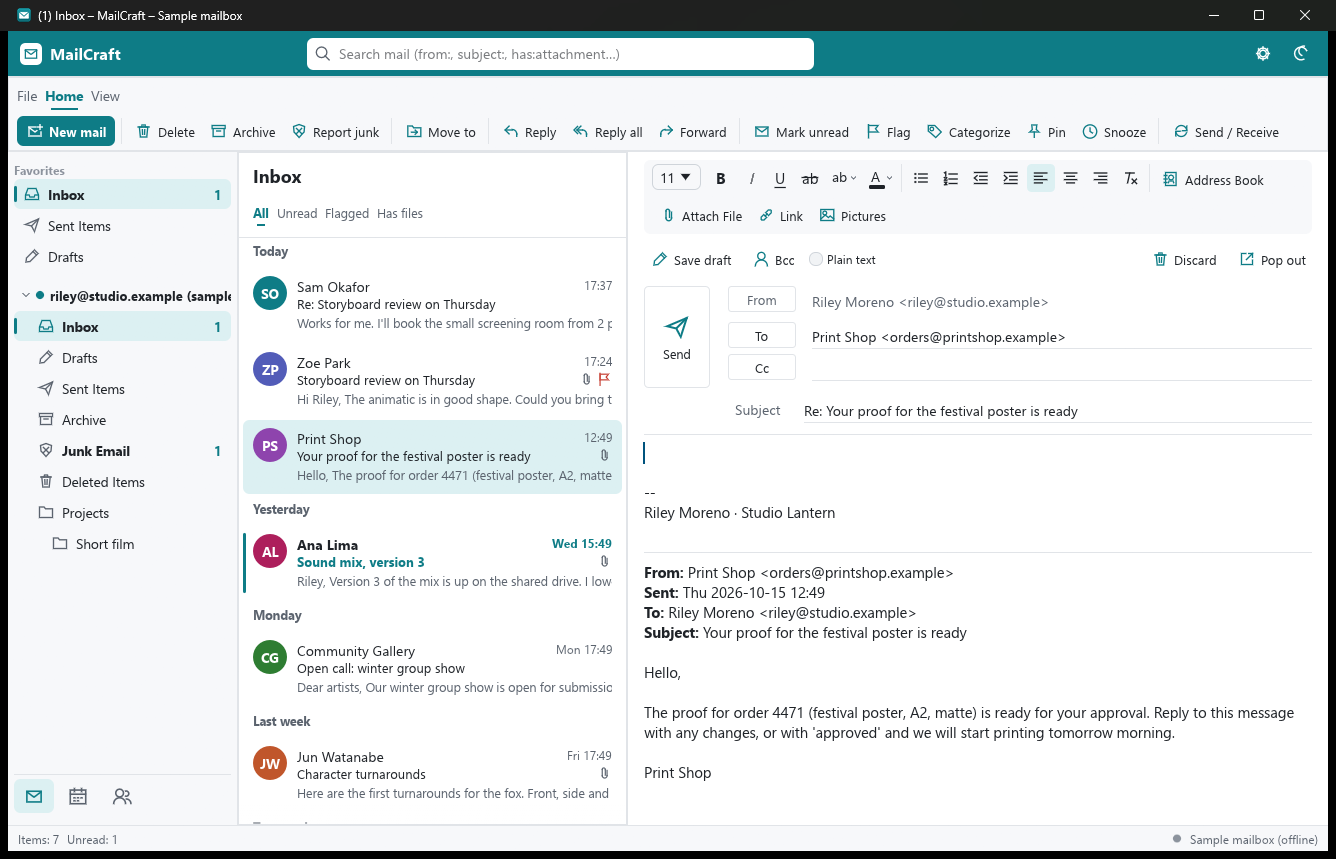
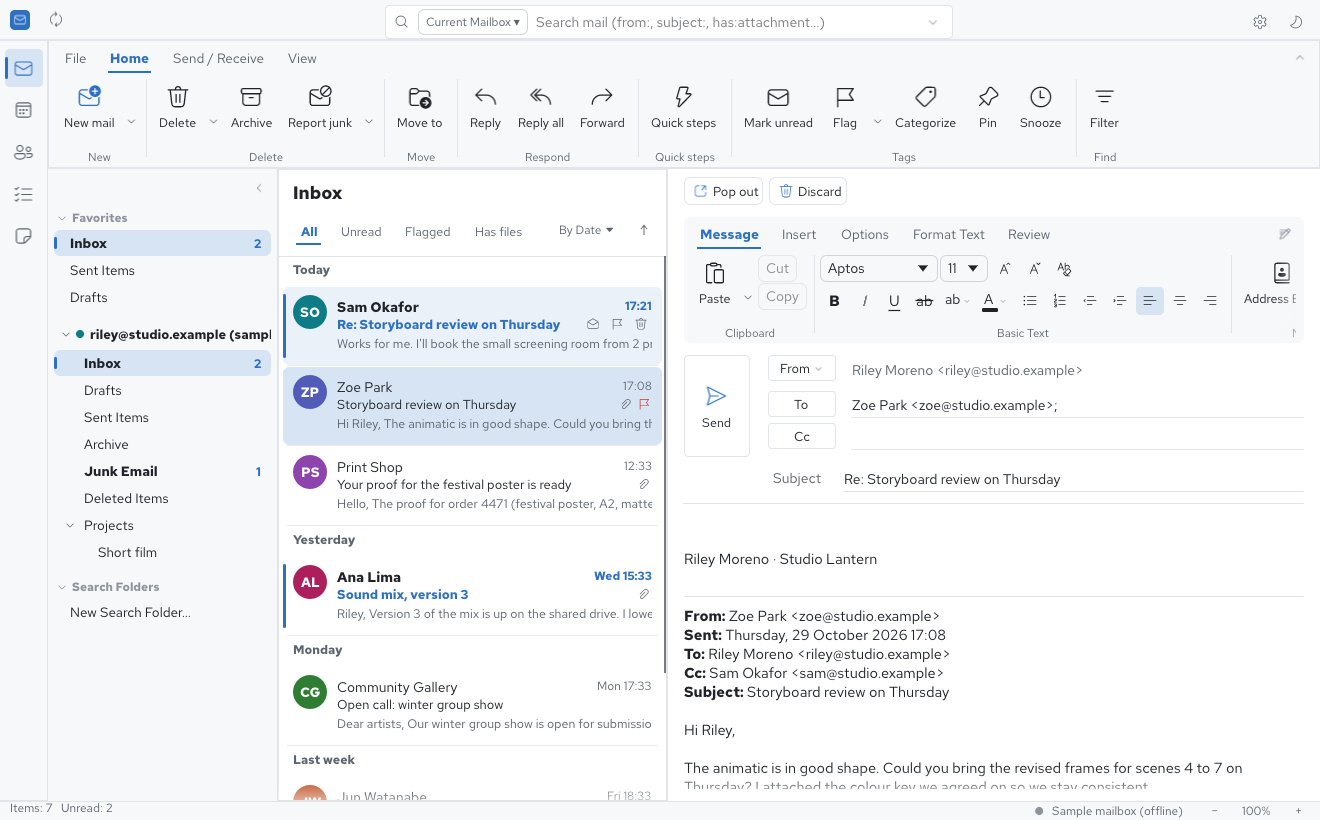
Quatrelle by Didier Gaudin: the README, its screenshots and the publisher's name
The README presents Quatrelle as its own project, started as a fork of ZIDAN44/mailcraft, with
today's screenshots of the sample mailbox (reading, search in dark mode, writing, the calendar's
week and the classic layout), the Exchange features and the assistant, what a stable release's
installers ask for while they aren't signed, and the versions (1.0.x stable, 1.1.x test builds).
Its line on Gmail and Microsoft sign-in says what a release build carries.

The licence keeps the code's origin as it was written ("the ArtCraft Team and the MailCraft
contributors", which the rename had changed) beside Didier Gaudin's own. The About page, the
Windows installer, the Linux packages and the AppStream metadata name him as the publisher and
point to the repository's issues rather than ArtCraft's Discord.

diff --git a/crates/ui-egui/src/panes/backstage/about.rs b/crates/ui-egui/src/panes/backstage/about.rs
@@ -50,7 +50,7 @@ pub(super) fn about(s: &Session, t: &Tokens, update: &crate::UpdateState, ui: &m
         ui.add_space(10.0);
         ui.vertical(|ui| {
             ui.label(RichText::new(tf!("Quatrelle {version}", version = env!("CARGO_PKG_VERSION"))).font(theme::bold(18.0)).color(t.text));
-            ui.label(RichText::new(tl!("An ArtCraft app · MIT OR Apache-2.0")).color(t.dim));
+            ui.label(RichText::new(tf!("By {author} · MIT OR Apache-2.0", author = "Didier Gaudin")).color(t.dim));
         });
     });
     ui.add_space(10.0);

diff --git a/apps/quatrelle/build.rs b/apps/quatrelle/build.rs
@@ -24,7 +24,7 @@ fn main() {
         .set_manifest(windows_manifest::WINDOWS_MANIFEST)
         .set("ProductName", "Quatrelle")
         .set("FileDescription", "Quatrelle email")
-        .set("CompanyName", "Learning Machines LLC")
+        .set("CompanyName", "Didier Gaudin")
         .set("LegalCopyright", "Copyright (c) the Quatrelle authors. MIT OR Apache-2.0.")
         .set("OriginalFilename", "quatrelle.exe")
         .set("InternalName", "quatrelle");

diff --git a/README.md b/README.md
@@ -1,19 +1,16 @@
 <h1 align="center">Quatrelle</h1>
 
-> **Ce fork (dgaudin/quatrelle)** s'écarte de l'original sur les icônes (Fluent UI de Microsoft,
-> MIT), le style de la fenêtre et l'apparence d'Outlook : voir [FORK.md](FORK.md).
-
 <p align="center">
-  <b>Local-first email for creators; an open-source, clean-room alternative to Microsoft Outlook, rebuilt in pure Rust.</b>
+  <b>Local-first email: an open-source, clean-room alternative to Microsoft Outlook, rebuilt in pure Rust.</b>
 </p>
 
 <p align="center">
   The mail workflow you already know (folders, a message list grouped by date, a reading pane,
-  Reply / Reply all / Forward, flags, Archive, Delete, Send / Receive) over IMAP and SMTP, JMAP or
-  Exchange Online, with a calendar and people beside it.
-  Mail is cached on your computer, so it opens instantly, searches fast and stays readable offline.
-  Your password stays in the system keychain and only ever goes to your own mail server.<br>
-  <i>By the ArtCraft team. Tracked in <a href="https://github.com/storytold/artcraft/issues/2177">storytold/artcraft#2177</a>.</i>
+  Reply / Reply all / Forward, flags, Archive, Delete, Send / Receive) over IMAP and SMTP, JMAP, or
+  Exchange (your organisation's own server, or Exchange Online), with a calendar, people and tasks
+  beside it. Mail is kept on your computer, so it opens instantly, searches fast and stays readable
+  offline. Your password stays in the system keychain and only ever goes to your own mail server.<br>
+  <i>By Didier Gaudin. Quatrelle started as a fork of <a href="https://github.com/ZIDAN44/mailcraft">ZIDAN44/mailcraft</a>.</i>
 </p>
 
 <p align="center">
@@ -25,13 +22,17 @@
 </p>
 
 <p align="center">
-  <img src="docs/images/reading.png" alt="Quatrelle with the sample mailbox: the folder pane on the left with Favorites and the account's folders and unread counts, the ribbon with Categorize, Pin and Snooze, the Inbox grouped under Today, Yesterday, Monday and Last week, and the reading pane showing a flagged message with its two-message conversation, sender card, Reply, Print and Save buttons and a picture attachment with a preview" width="100%">
+  <img src="docs/images/reading.png" alt="Quatrelle with the sample mailbox: the folder pane on the left with Favorites and the account's folders and unread counts, the ribbon with Reply, Quick steps, Flag, Categorize, Pin and Snooze, the Inbox grouped under Today, Yesterday, Monday and Last week, and the reading pane showing a flagged message with its follow-up, Reply, Reply all, Forward, Print and Save buttons and a picture attachment" width="100%">
 </p>
 
 <table>
 <tr>
 <td width="50%"><img src="docs/images/search-dark.png" alt="Dark mode with a search for storyboard across all folders, both messages of the conversation found and the reply open" width="100%"><p align="center"><sub><b>Search</b> across every folder, offline, with <code>from:</code>, <code>subject:</code>, <code>has:attachment</code>, <code>is:unread</code>; conversations; dark mode.</sub></p></td>
-<td width="50%"><img src="docs/images/compose.png" alt="Writing a reply in the reading pane: the formatting toolbar, Attach File, Link and Pictures, Save draft, Bcc, Discard and Pop out, the From, To and Subject fields filled in, the cursor above the signature and the original message below" width="100%"><p align="center"><sub><b>Write</b> in place: replies quote the original under your signature, with attachments, Cc/Bcc and drafts.</sub></p></td>
+<td width="50%"><img src="docs/images/compose.png" alt="Writing a reply in the reading pane: the Message, Insert, Options, Format Text and Review tabs, the font and paragraph buttons, Pop out and Discard, the From, To and Subject fields filled in, the signature and the original message below" width="100%"><p align="center"><sub><b>Write</b> in place: replies quote the original under your signature, with attachments, Cc/Bcc and drafts.</sub></p></td>
+</tr>
+<tr>
+<td width="50%"><img src="docs/images/calendar.png" alt="The calendar's week view: the date navigator on the left, the ribbon with Day, Work week, Week and Month, and a week of appointments in their calendars' colours, several side by side on Thursday" width="100%"><p align="center"><sub><b>Calendar</b>: day, week and month views, invitations, meetings with the Scheduling Assistant; Exchange, CalDAV or this computer.</sub></p></td>
+<td width="50%"><img src="docs/images/table.png" alt="The classic layout: the message list as a table with From, Subject, Received, Size and Categories columns, the reading pane at the bottom, and the To-Do bar's month and coming appointments on the right" width="100%"><p align="center"><sub><b>Classic layout</b>: the list as a table, the reading pane at the bottom or off, the To-Do bar beside it.</sub></p></td>
 </tr>
 </table>
 
@@ -71,11 +72,13 @@ the point: Rust is the language underneath, and the rust is what keeps it from f
 
 | Area | Highlights |
 |---|---|
-| **Accounts** | Any IMAP + SMTP or POP + SMTP provider (POP mail is kept in folders on this computer, starting from an existing `.pst` if wanted), JMAP (RFC 8620/8621), Exchange Online through Microsoft Graph, or an organisation's own Exchange server through EWS (NTLM or Basic sign-in, found with Autodiscover, calendars and contacts included); several accounts with an *All Inboxes* favorite; server settings found from the address (the domain's autoconfig, the Mozilla ISPDB, MX and SRV records); Gmail and Microsoft 365 sign-in through the browser (OAuth 2.0); SSL/TLS or STARTTLS; passwords in the system keychain; Outlook data files (`.pst`) open as mailboxes of their own, with their contacts and calendar, and any account exports to one |
+| **Accounts** | Any IMAP + SMTP or POP + SMTP provider (POP mail is kept in folders on this computer, starting from an existing `.pst` if wanted), JMAP (RFC 8620/8621), Exchange Online through Microsoft Graph, or an organisation's own Exchange server through EWS (NTLM or Basic sign-in, found with Autodiscover, calendars and contacts included); several accounts with an *All Inboxes* favorite; server settings found from the address (the domain's autoconfig, the Mozilla ISPDB, MX and SRV records); sign-in through the browser (OAuth 2.0) for Microsoft 365 with your organisation's own app registration, and for Gmail and Outlook.com in builds that carry one ([docs/oauth.md](docs/oauth.md)), an app password otherwise; SSL/TLS or STARTTLS; passwords in the system keychain; Outlook data files (`.pst`) open as mailboxes of their own, with their contacts and calendar, and any account exports to one |
 | **Sync** | Folder list with special-use roles (RFC 6154); per-folder incremental sync (new mail, flag changes via CONDSTORE, deletions via QRESYNC); UIDVALIDITY resets; IDLE on the Inbox for instant new mail; newest messages prefetched for offline reading; changes made offline replayed; back-off reconnects; desktop notifications for new mail |
 | **Reading** | Date-grouped list (Today, Yesterday, weekdays, Last week…), unread bars and bold, flags, attachment and replied markers, previews; reading pane right, bottom or off; double-click opens a message in its own window; conversations (JWZ threading); HTML shown formatted (headings, lists, links, quotes, colours, tables) with web pictures on request, remembered per sender; picture, PDF and video thumbnails; attachments dragged out to other apps; Print, Save as PDF, Save as `.eml`; arranged by date, sender, recipient, subject, size, flag or attachments, either way round; filters for unread, flagged, files, categorized, important and to or Cc me; a minimizable folder pane |
 | **Organising** | Delete (to Deleted Items; permanent there, with confirmation), Archive, Report junk / Not junk, Move to (dialog or drag), Read / Unread, Flag, Pin, Snooze, colour categories, Mark all as read; Focused / Other; inbox rules; filters: Unread, Flagged, Has files; multi-select with Ctrl and Shift; folders created, renamed, moved and deleted; favourites; Undo (Ctrl+Z); Ignore a conversation (its later replies go to Deleted Items) |
-| **Writing** | New, Reply, Reply all, Forward (with attachments); formatting (bold, italic, lists, headings, quotes, links) sent with a plain-text alternative; pictures inserted or pasted inline; To / Cc / Bcc suggested from mail you've seen; attachments up to 25 MB; signatures; drafts saved to the server; an Outbox for mail written offline; High / Low importance and read receipts; drafts that can't reach the server are kept and saved when it's back |
+| **Writing** | New, Reply, Reply all, Forward (with attachments); formatting (bold, italic, lists, headings, quotes, links) sent with a plain-text alternative; pictures inserted or pasted inline; To / Cc / Bcc suggested from mail you've seen; attachments up to 25 MB; signatures; drafts saved to the server; an Outbox for mail written offline; Delay Delivery; voting buttons; High / Low importance and read receipts; drafts that can't reach the server are kept and saved when it's back; S/MIME signing and encryption, with a certificate file or a smart card |
+| **Exchange** | An organisation's own Exchange server through EWS, kept on this computer as Outlook's Cached Exchange Mode keeps it; shared mailboxes and calendars; public folders; the server's rules, Outlook's included; automatic replies inside and outside the organisation; the Scheduling Assistant and the Room Finder; folder sizes on the server |
+| **Assistant** | Optional, through any OpenAI-compatible server (OpenAI, Mistral, Ollama, LM Studio…): summarize a message or a conversation, propose a reply, suggest a folder and a category, rephrase what you write; its key stays in the keychain, and nothing is sent until you ask |
 | **Calendar and people** | Day, week and month views; events with recurrences and time zones; meeting invitations by mail (accept, tentative, decline, inviting guests); an address book; synced with CalDAV / CardDAV |
 | **Mailbox** | The File page: account settings, automatic replies (Sieve, JMAP or Exchange), the space used, emptying Deleted Items and Junk Email, rules, Options; Work offline; each account in one `.quatrelle` data file in Documents\Quatrelle Files, movable as Outlook's are |
 | **Search** | Offline, all folders or this folder; bare words match word prefixes; `"phrases"`, `from:`, `to:`, `subject:`, `body:`, `has:attachment`, `is:unread`, `is:flagged`, `-negation` |
@@ -86,10 +89,13 @@ The full list of what's missing, ranked, is in [docs/gaps.md](docs/gaps.md).
 
 ## Quick start
 
-Installers come from the [Releases](https://github.com/dgaudin/quatrelle/releases) page once a
-release is cut: `.msi` and a portable zip for Windows (x64, x86, ARM64), a `.dmg` for macOS
-(universal), AppImage, `.deb`, `.rpm`, Flatpak and `.tar.gz` for Linux (x86_64, aarch64, riscv64),
-and a FreeBSD tarball. To run from source:
+Installers come from the [Releases](https://github.com/dgaudin/quatrelle/releases) page: `.msi`
+and a portable zip for Windows (x64, x86, ARM64), a `.dmg` for macOS (universal), AppImage,
+`.deb`, `.rpm`, Flatpak and `.tar.gz` for Linux (x86_64, aarch64, riscv64), and a FreeBSD
+tarball. The Windows and macOS installers aren't signed yet: Windows SmartScreen asks you to
+confirm (*More info › Run anyway*), and macOS to allow the app in *System Settings › Privacy &
+Security*. Versions: `1.0.x` are the stable releases and their fixes; `1.1.x` test builds come
+first as pre-releases. To run from source:
 
 ```bash
 cargo run --release -p quatrelle -- --sample
@@ -171,7 +177,11 @@ of your own in `assets/icon.png` and run it again to use that instead.
 
 ## License and credits
 
-MIT OR Apache-2.0. Built on [`mail-parser`](https://github.com/stalwartlabs/mail-parser) and
+MIT OR Apache-2.0. Quatrelle started as a fork of [ZIDAN44/mailcraft](https://github.com/ZIDAN44/mailcraft)
+(© the ArtCraft Team and the MailCraft contributors); what it changed from it, and why, is in
+[FORK.md](FORK.md) (in French). The rest is © Didier Gaudin.
+
+Built on [`mail-parser`](https://github.com/stalwartlabs/mail-parser) and
 [`mail-builder`](https://github.com/stalwartlabs/mail-builder) (Stalwart Labs, Apache-2.0 / MIT),
 [`imap-proto`](https://github.com/djc/tokio-imap) (MIT / Apache-2.0), [`lettre`](https://github.com/lettre/lettre) (MIT),
 [`rustls`](https://github.com/rustls/rustls) and [`ring`](https://github.com/briansmith/ring), [`html2text`](https://github.com/jugglerchris/rust-html2text) (MIT),
@@ -179,4 +189,5 @@ MIT OR Apache-2.0. Built on [`mail-parser`](https://github.com/stalwartlabs/mail
 [`quick-xml`](https://github.com/tafia/quick-xml) (MIT), [`hayro`](https://github.com/LaurenzV/hayro) (MIT / Apache-2.0),
 [`outlook-pst`](https://github.com/microsoft/outlook-pst-rs) (Microsoft, MIT), [`outlook-pst-rw`](https://github.com/dongs0104/outlook-pst-rs) (MIT), [`drag`](https://github.com/crabnebula-dev/drag-rs) (MIT / Apache-2.0), [`x11rb`](https://github.com/psychon/x11rb) (MIT / Apache-2.0) and
 [`egui`](https://github.com/emilk/egui). Microsoft Outlook is a trademark of Microsoft; Quatrelle is
-not affiliated with it and uses none of its code, icons or assets.
+not affiliated with it and uses none of its code or assets; its interface icons are Microsoft's
+Fluent UI System Icons, published under the MIT licence.

diff --git a/ATTRIBUTION.md b/ATTRIBUTION.md
@@ -23,6 +23,8 @@ owner's own picture `assets/icon.png` when it is there (every size is sampled do
 | `docs/images/reading.png` | Quatrelle contributors | Screenshot of Quatrelle's own sample mailbox | MIT OR Apache-2.0 |
 | `docs/images/search-dark.png` | Quatrelle contributors | Screenshot of Quatrelle's own sample mailbox | MIT OR Apache-2.0 |
 | `docs/images/compose.png` | Quatrelle contributors | Screenshot of Quatrelle's own sample mailbox | MIT OR Apache-2.0 |
+| `docs/images/calendar.png` | Quatrelle contributors | Screenshot of Quatrelle's own sample mailbox | MIT OR Apache-2.0 |
+| `docs/images/table.png` | Quatrelle contributors | Screenshot of Quatrelle's own sample mailbox | MIT OR Apache-2.0 |
 | `assets/app-icon/hicolor/128x128/apps/ai.storyteller.quatrelle.png` | Quatrelle contributors | Rendered by `cargo xtask icons` (`xtask/src/icons.rs`) | MIT OR Apache-2.0 |
 | `assets/app-icon/hicolor/16x16/apps/ai.storyteller.quatrelle.png` | Quatrelle contributors | Rendered by `cargo xtask icons` (`xtask/src/icons.rs`) | MIT OR Apache-2.0 |
 | `assets/app-icon/hicolor/24x24/apps/ai.storyteller.quatrelle.png` | Quatrelle contributors | Rendered by `cargo xtask icons` (`xtask/src/icons.rs`) | MIT OR Apache-2.0 |
